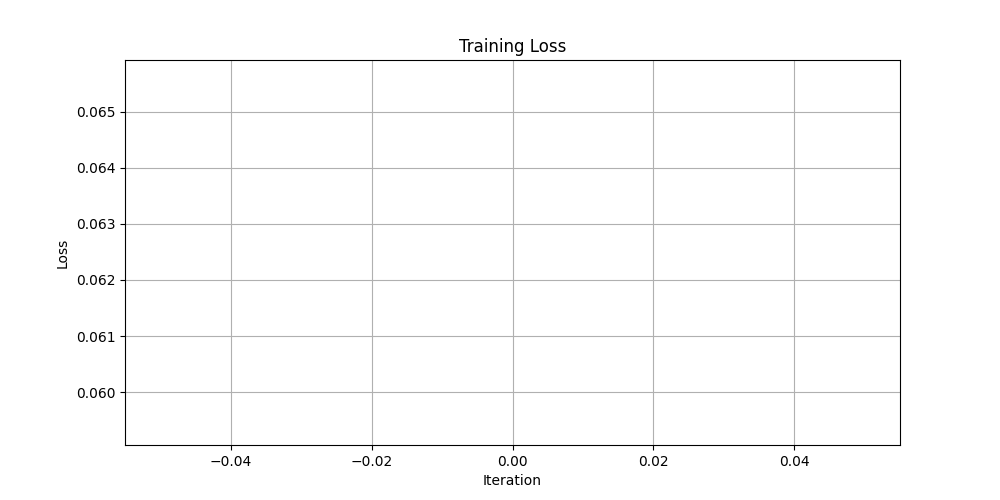
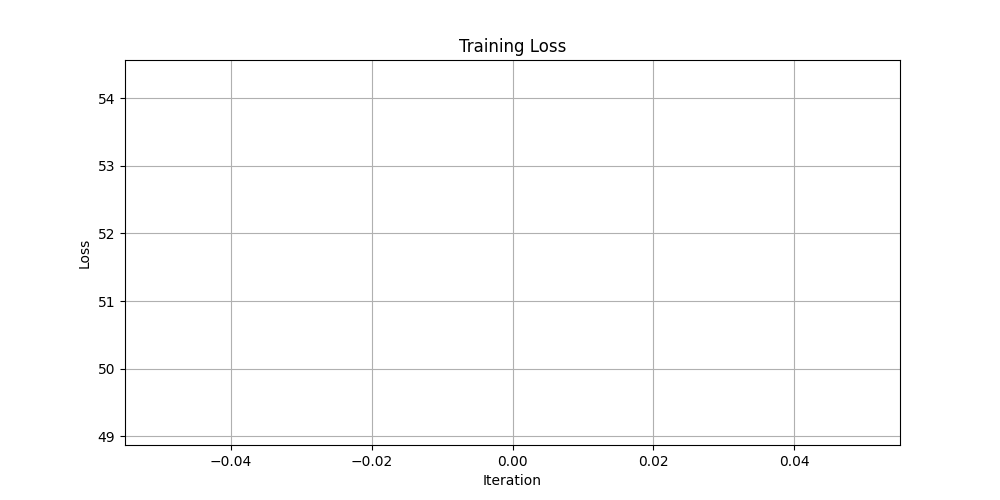
Fix custom_loss computation.

diff --git a/train.py b/train.py
@@ -36,21 +36,10 @@ def train(model, dataset, num_epochs=50, batch_size=32, learning_rate=0.001, sav
     
     # Custom loss function that emphasizes larger errors
     def custom_loss(output, target):
-        # Calculate absolute difference and clamp to prevent NaN
-        epsilon = 1e-6  # small constant to prevent division by zero
-        diff = torch.abs(output - target)
-        diff = torch.clamp(diff, min=epsilon, max=10.0)  # limit max error to prevent explosion
-        
-        # Apply custom transformation element-wise:
-        # - Pour diff < 1 : diff^0.7 pour amplifier (moins agressif que sqrt)
-        # - Pour diff >= 1 : diff pour ne pas réduire
-        small_errors = diff < 1
-        transformed_diff = torch.zeros_like(diff)
-        transformed_diff[small_errors] = diff[small_errors] ** 0.7  # less aggressive amplification
-        transformed_diff[~small_errors] = diff[~small_errors]
-        
-        # Average over all elements
-        return transformed_diff.mean()
+        diff = output - target
+        diff = torch.clamp(diff, min=-10.0, max=10.0)
+        transformed_diff = torch.sinh(torch.abs(diff))  # always >= 0
+        return transformed_diff.sum() / output.size(0)  # Normalize per sample
     
     # Initialize visualizer for training monitoring
     visualizer = SnakeVisualizer()
@@ -125,7 +114,10 @@ def train(model, dataset, num_epochs=50, batch_size=32, learning_rate=0.001, sav
             best_loss = avg_loss
             torch.save(model.state_dict(), os.path.join(save_dir, 'snake_model_best.pt'))
         
-        # Periodically save checkpoints and visualizations
+        # Save training curve at each epoch
+        visualizer.save_training_curve(all_losses, 'training_curve.png')
+        
+        # Periodically save checkpoints
         if (epoch + 1) % 5 == 0:
             # Save checkpoint
             torch.save({
@@ -134,10 +126,8 @@ def train(model, dataset, num_epochs=50, batch_size=32, learning_rate=0.001, sav
                 'optimizer_state_dict': optimizer.state_dict(),
                 'loss': avg_loss,
             }, os.path.join(save_dir, f'snake_model_checkpoint_epoch_{epoch+1}.pt'))
-            
     
-    # Save final model and training curve
+    # Save final model
     torch.save(model.state_dict(), os.path.join(save_dir, 'snake_model_final.pt'))
-    visualizer.save_training_curve(all_losses, 'training_curve.png')
     
     return all_losses
